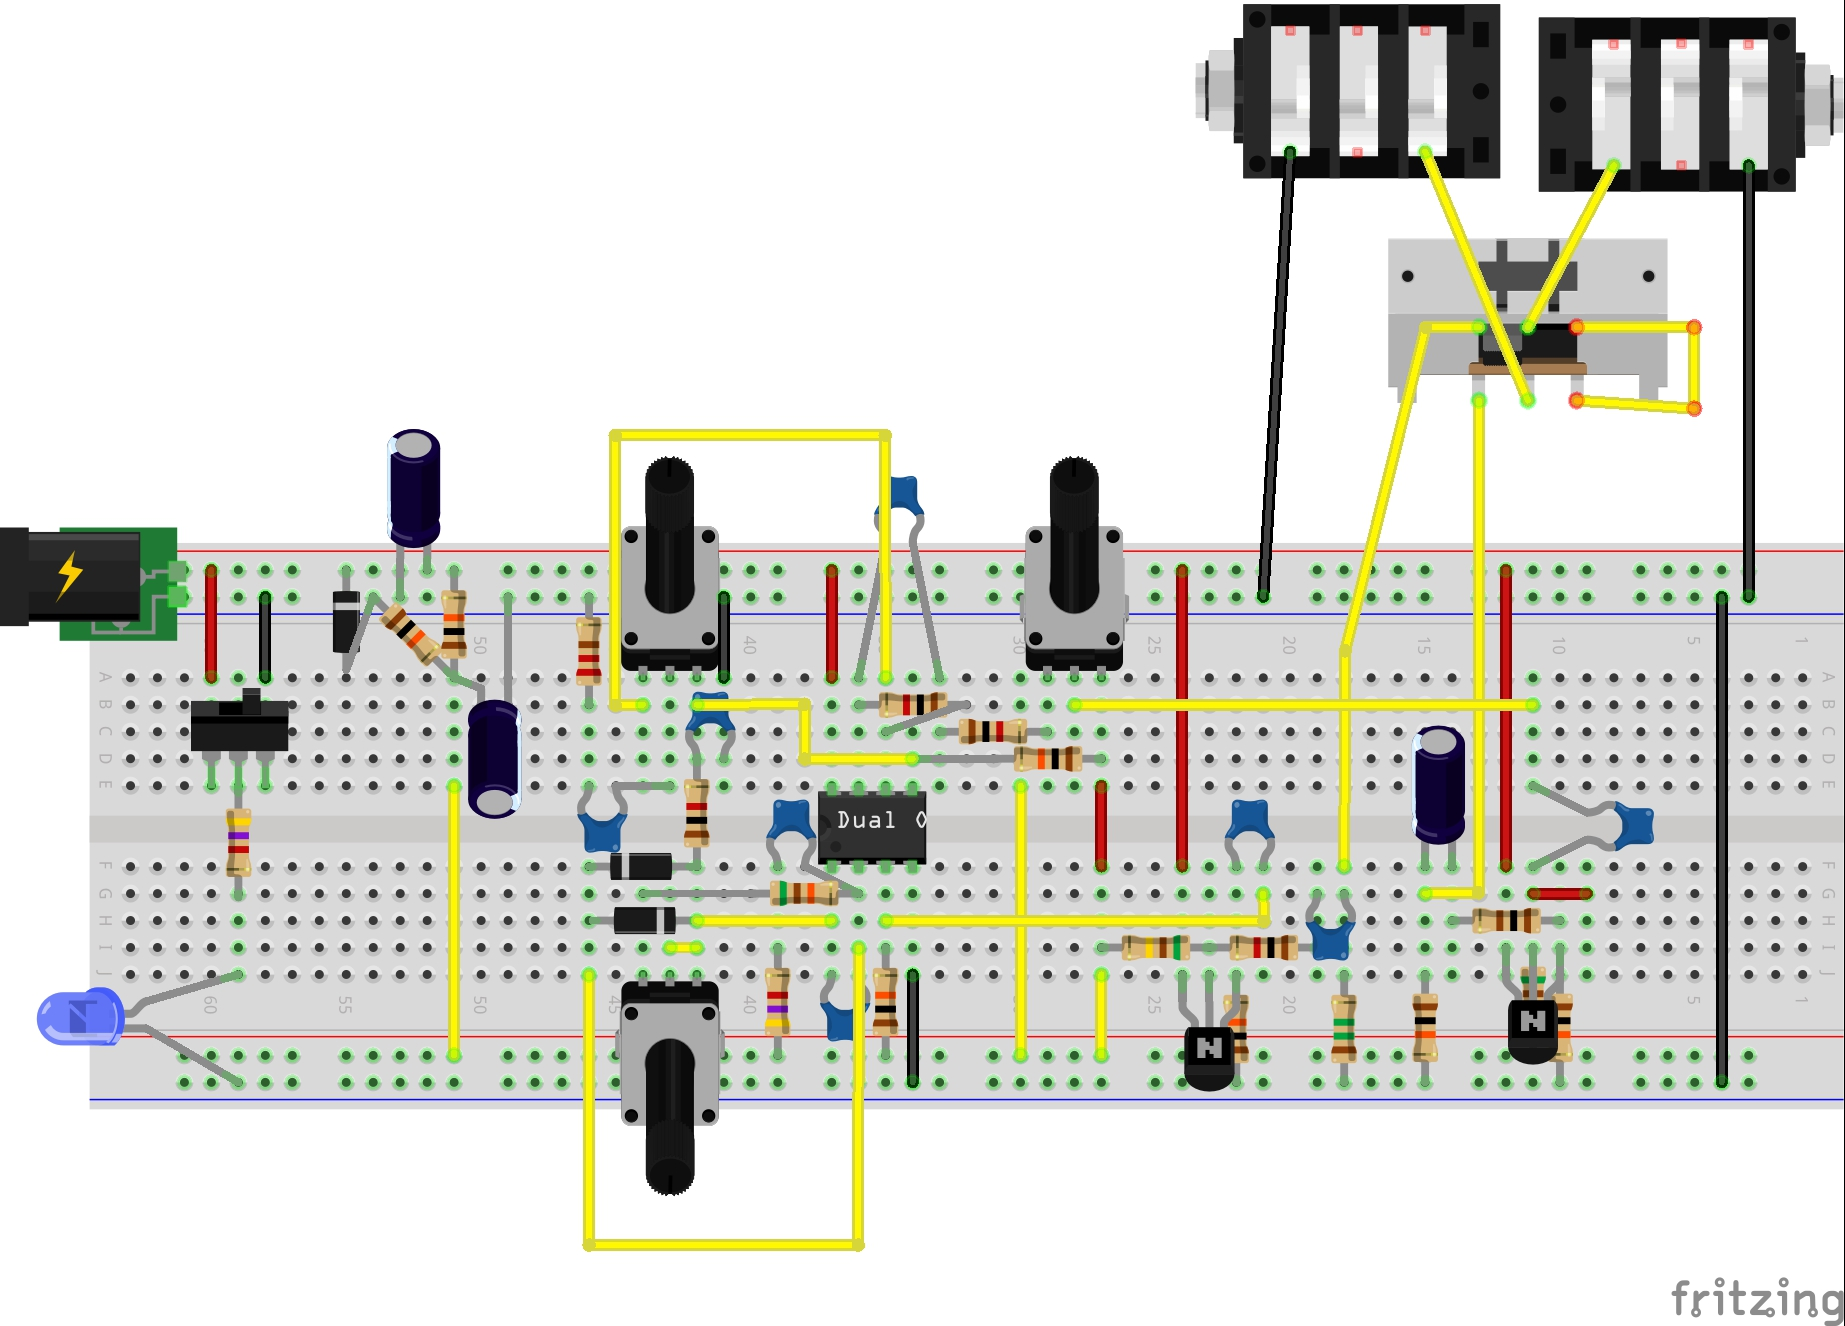
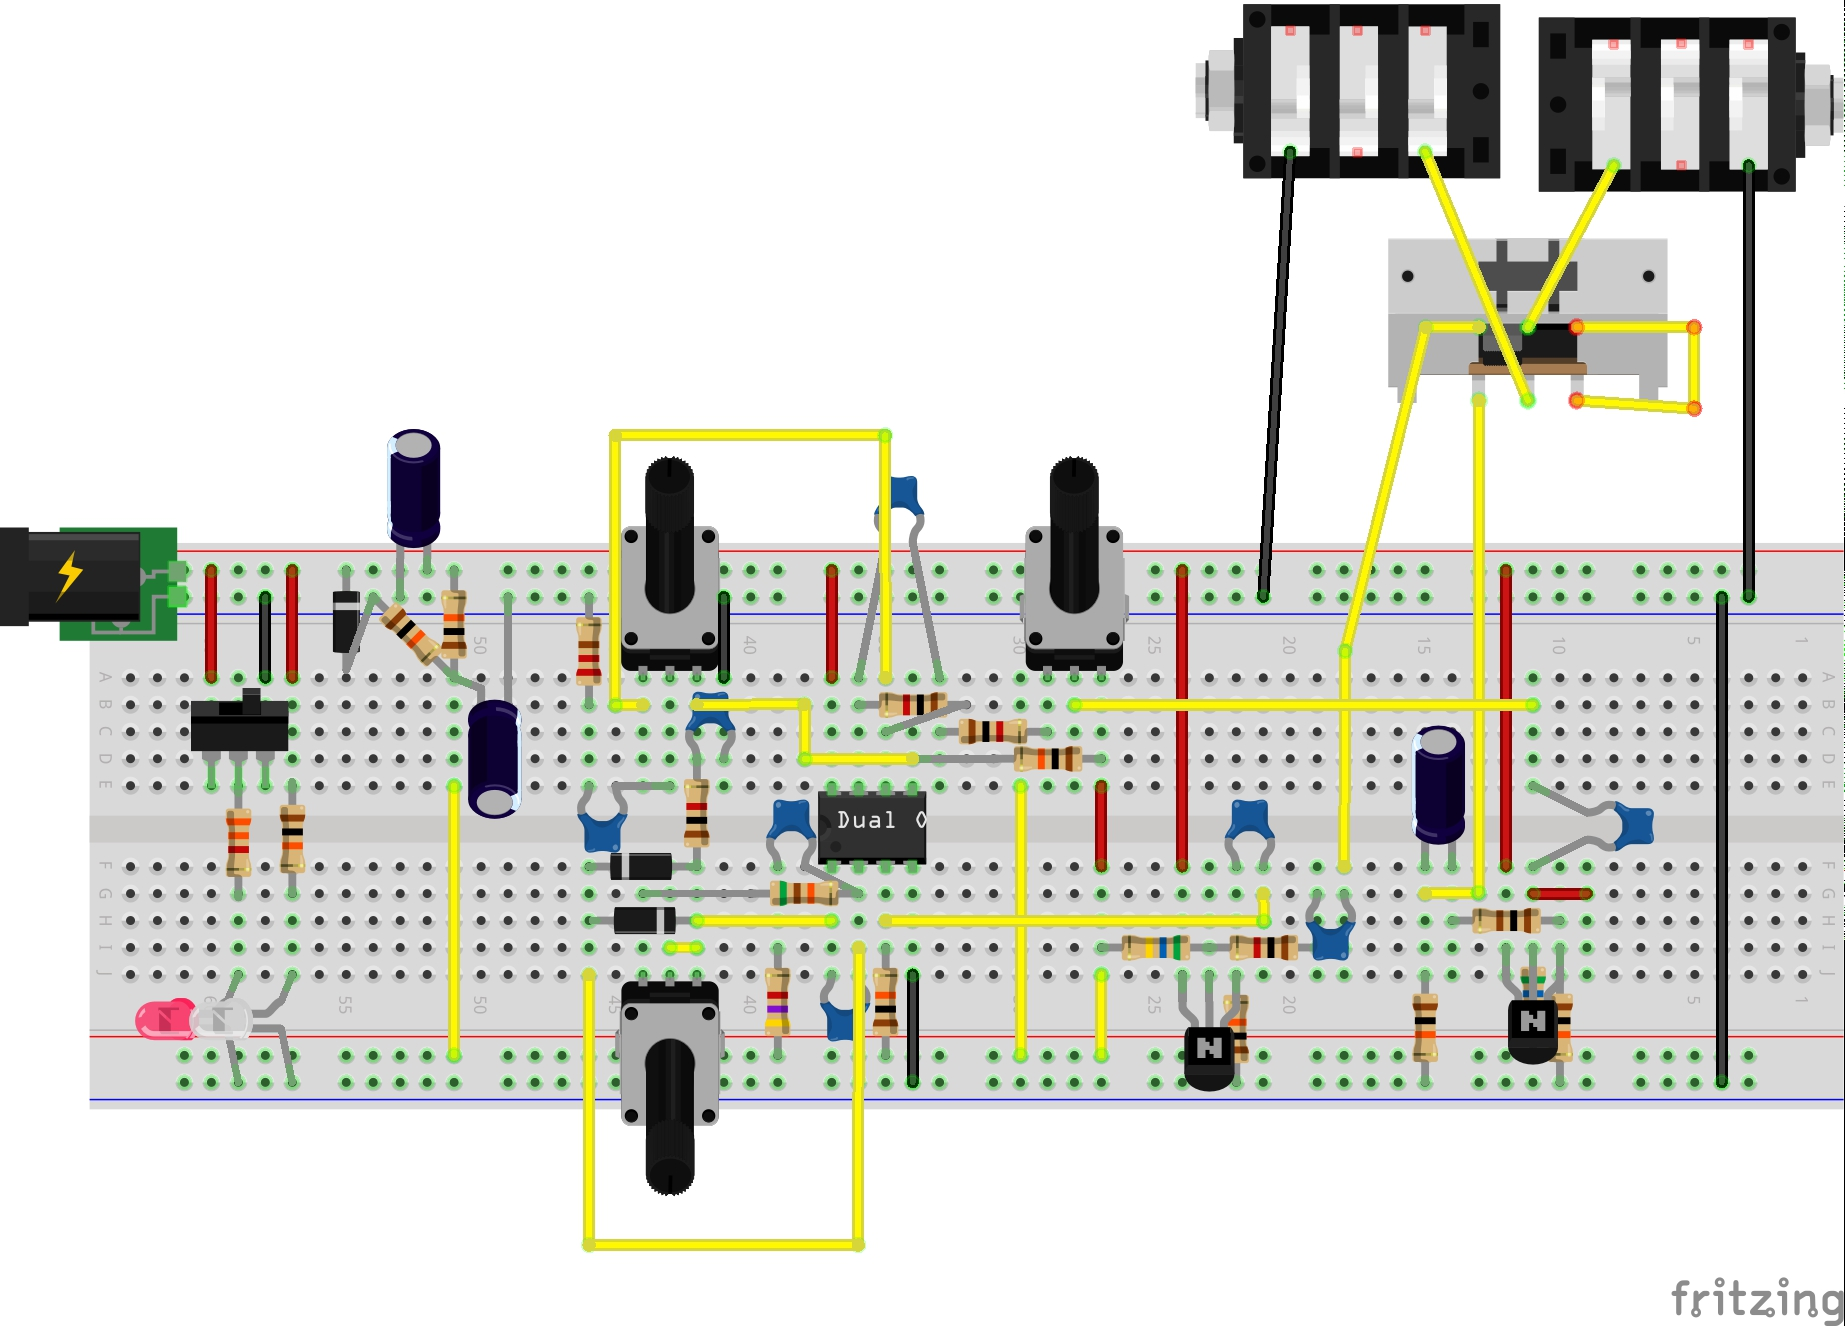
[GuitarEffects/Goblin] tidy notes

diff --git a/Electronics101/GuitarEffects/Goblin/README.md b/Electronics101/GuitarEffects/Goblin/README.md
@@ -106,7 +106,7 @@ Conventional power supply arrangements may be used, but not shown completely in 
 * reverse polarity protection diode
 * power to ground connection switched by the input jack i.e. power on when you plug in an instrument lead
 
-### Modifications
+### Common Modifications
 
 The following summarises some of the common modification possibilities. More are covered in [The Technology of the Tube Screamer](http://www.geofex.com/Article_Folders/TStech/tsxfram.htm).
 
@@ -215,6 +215,8 @@ with just a couple of component changes when compared to the original Tube Screa
 * R2, R12 560kΩ (instead of 510kΩ), since this is what I had on-hand
 * C4 50pF (instead of 51pF), since this is what I had on-hand
 * Q1, Q2 S9014 (instead of 2SC1815)
+* 3mm white LED for the power indicator, with a 10kΩ current limit resistor (since it is a super-bright LED)
+* 3mm red LED for the effect-enabled indicator, with a 3.3kΩ current limit resistor
 
 ![Breadboard](./assets/Goblin_bb.jpg?raw=true)
 
